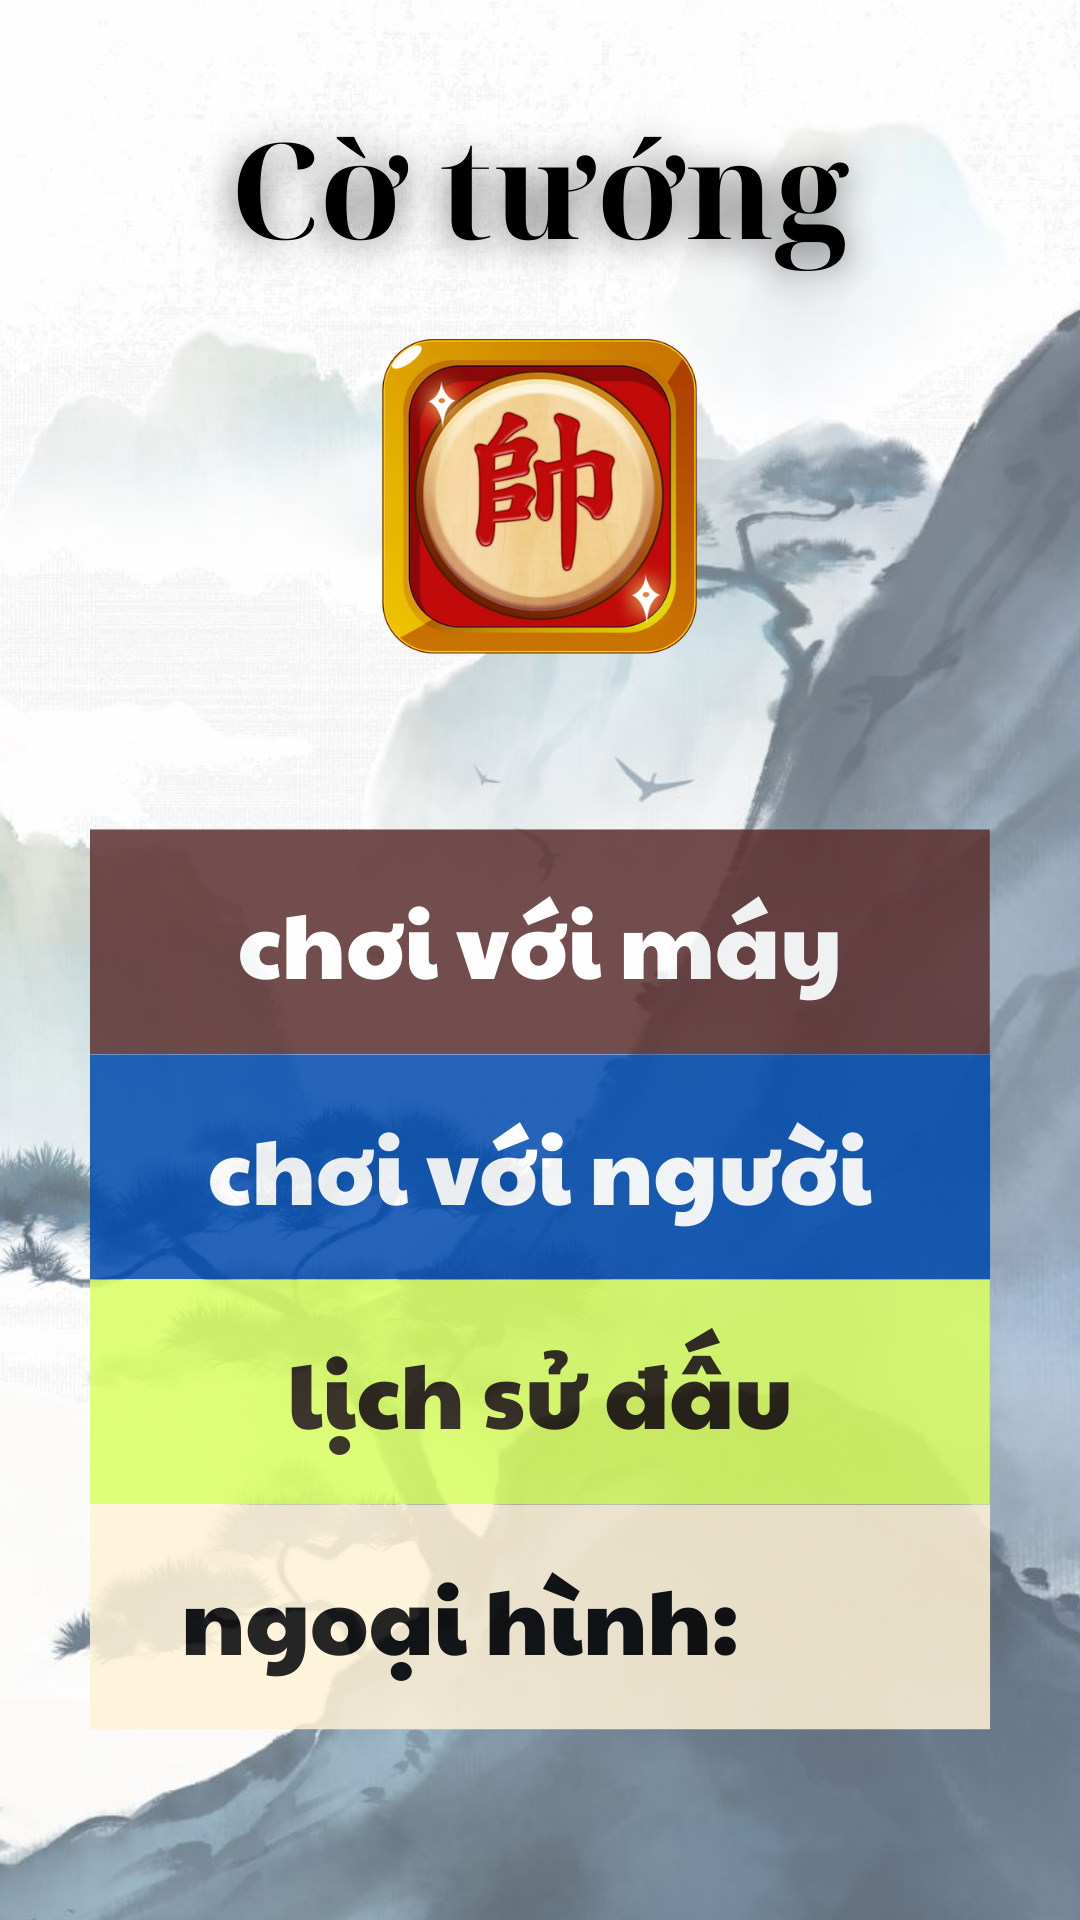
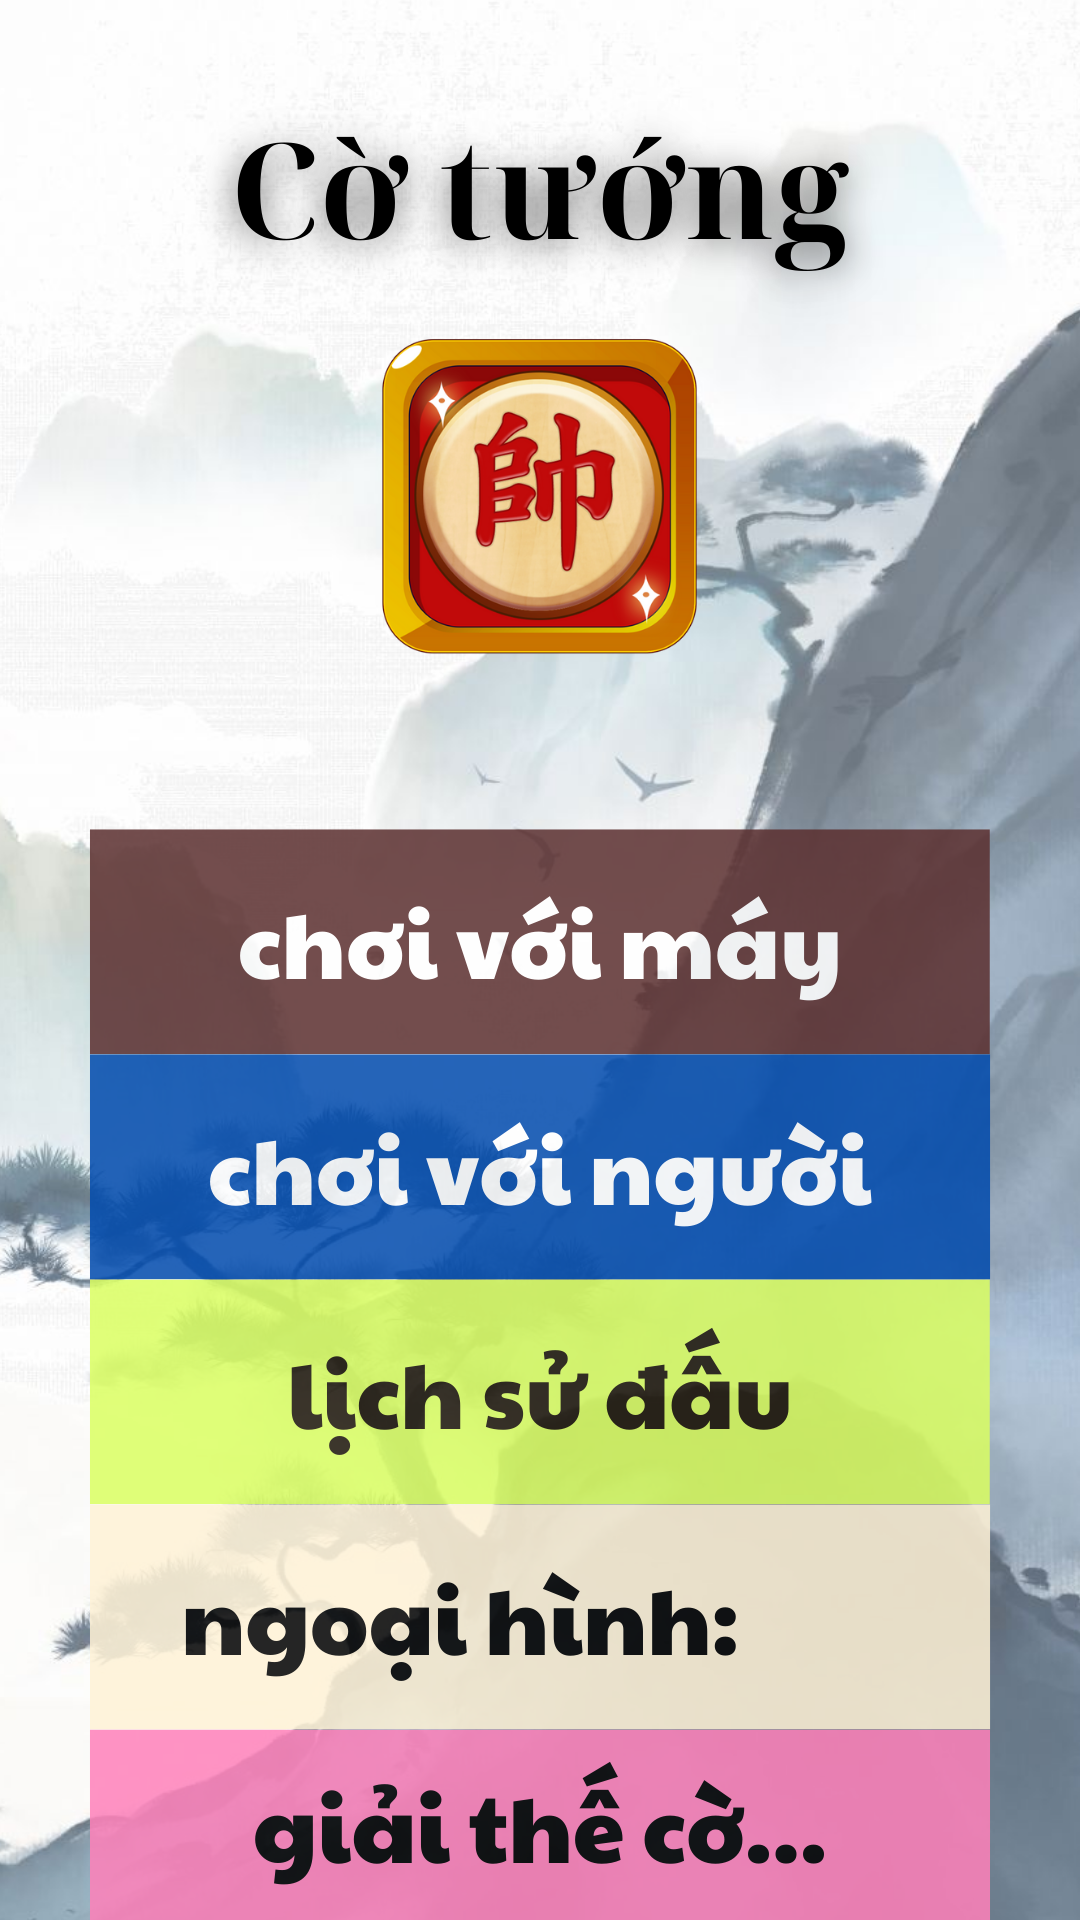
giai the co

Changed region(s): [[0.0611, 0.875, 0.9167, 1.0]]

diff --git a/src/xiangqigdx/core/src/main/java/se/xiangqigdx/MainMenuScreen.java b/src/xiangqigdx/core/src/main/java/se/xiangqigdx/MainMenuScreen.java
@@ -36,19 +36,24 @@ public class MainMenuScreen implements Screen {
             game.touchPos.set(Gdx.input.getX(), Gdx.input.getY());
             game.viewport.unproject(game.touchPos);
             int x = (int) game.touchPos.x, y = (int) game.touchPos.y;
-            if (y <= 1920-829 && y > 1920-1729 && 90 < x && x < 990){
+            if (y <= 1920-829 && y > 0 && 90 < x && x < 990){
                 if (y >= 1920-1054)
                     game.setScreen(new GameScreen(game, GameMode.PVE));
                 else if (y >= 1920-1279)
                     game.setScreen(new GameScreen(game, GameMode.PVP));
-                else if (y >= 1920-1400) // Add history button check
+                else if (y >= 1920-1504) // Add history button check
                     game.setScreen(new GameHistoryScreen(game));
-                else if (y < 1920-1504) {
+                else if (y >= 1920-1729) {
                     // Toggle skin mode
                     game.currentSkinMode = (game.currentSkinMode == SkinMode.CHINESE) ?
                         SkinMode.ENGLISH : SkinMode.CHINESE;
                     game.skinPreferences.putString("skinMode", game.currentSkinMode == SkinMode.CHINESE ? "CHINESE": "ENGLISH");
                     game.skinPreferences.flush();
+                }
+                else if (y < 1920-1729){
+                    GameScreen gs = new GameScreen(game, GameMode.PVE);
+                    gs.board.setupPieces(1);
+                    game.setScreen(gs);
                 }
             }
             dispose();

diff --git a/src/xiangqigdx/core/src/main/java/se/xiangqigdx/Board.java b/src/xiangqigdx/core/src/main/java/se/xiangqigdx/Board.java
@@ -102,6 +102,17 @@ public class Board {
         }
     }
 
+
+    public void setupPieces(int CustomGame){
+        if (CustomGame == 1){
+            pieces.clear();
+            pieces.add(new Piece(Side.BLACK, Type.GENERAL, 5, 0));
+            pieces.add(new Piece(Side.BLACK, Type.HORSE, 5, 1));
+            pieces.add(new Piece(Side.RED, Type.GENERAL, 5, 9));
+            pieces.add(new Piece(Side.RED, Type.HORSE, 0, 2));
+        }
+    }
+
     public Board(GameMode mode) {
         gameMode = mode;
         setupPieces();
@@ -294,7 +305,7 @@ public class Board {
     public void checkGameStatus() {
         // Create a copy of pieces for safe iteration
         ArrayList<Piece> piecesCopy = new ArrayList<>(pieces);
-        
+
         // First check if either general is captured
         boolean hasBlackGeneral = false;
         boolean hasRedGeneral = false;
@@ -400,7 +411,7 @@ public class Board {
         pieces.clear();
         this.player1Side = player1Side;
         this.player2Side = (player1Side == Side.RED) ? Side.BLACK : Side.RED;
-        
+
         // Setup pieces based on player1's side
         if (player1Side == Side.RED) {
             // Normal setup - player1 is RED at bottom

diff --git a/src/xiangqigdx/core/src/main/java/se/xiangqigdx/GameScreen.java b/src/xiangqigdx/core/src/main/java/se/xiangqigdx/GameScreen.java
@@ -22,7 +22,7 @@ public class GameScreen implements Screen {
     private Texture boardTexture;
     private Texture[] pieceTextures;
     private Texture hintTexture;
-    private Board board;
+    public Board board;
     ArrayList<Position> validMovesPositions;
     private OrthographicCamera camera;
     private Viewport viewport;
@@ -444,7 +444,7 @@ public class GameScreen implements Screen {
             record.isStalemate = board.isStalemate();
             record.player1Side = board.player1Side;
             record.moves = board.moveStack.toString();
-            
+
             Gdx.app.log("GameScreen", "Saving game...");
             game.gameDatabase.saveGame(record);
             gameSaved = true;
